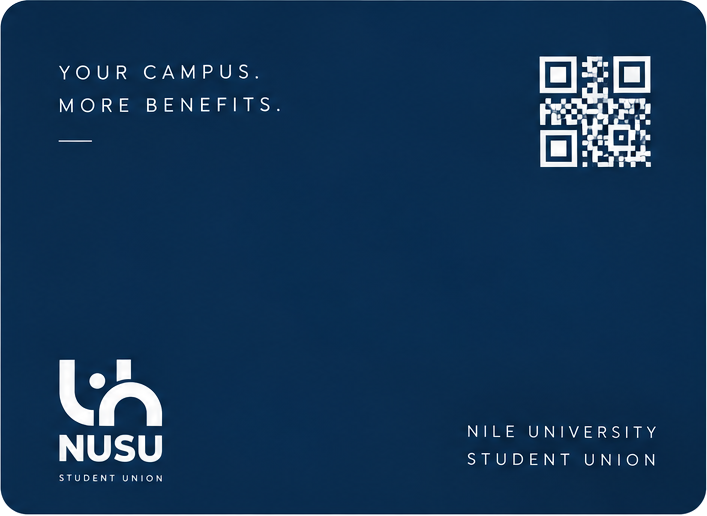
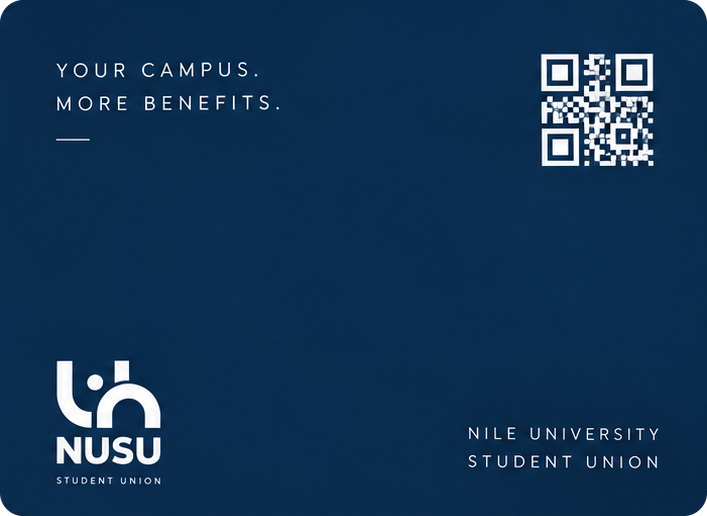
Lanyard: load without hitching; clean card edges
- Card faces sized to the artwork (2x) and painted once instead of 2560px canvases painted twice
- Card stays hidden until shaders compile asynchronously and textures upload one per frame
- Environment map baked at 256px
- Trimmed the light border left on the card crops

diff --git a/components/landing/lanyard-scene.tsx b/components/landing/lanyard-scene.tsx
@@ -172,23 +172,6 @@ function Band({ onGrab, onReady }: { onGrab?: () => void; onReady?: () => void }
   const textures = useMemo(() => createCardTextures(gl.capabilities.getMaxAnisotropy()), [gl]);
   useEffect(() => () => textures.dispose(), [textures]);
 
-  // Physics and textures are in: tell the hero after a couple of frames so the first paint is the real card.
-  useEffect(() => {
-    let live = true;
-    void textures.ready.then(() =>
-      requestAnimationFrame(() =>
-        requestAnimationFrame(() => {
-          if (!live) return;
-          clock.current.started = true;
-          invalidate();
-          onReady?.();
-        }),
-      ),
-    );
-    return () => {
-      live = false;
-    };
-  }, [textures, onReady, invalidate]);
 
   const geometries = useMemo(() => ({ face: faceGeometry(), body: bodyGeometry() }), []);
   useEffect(() => () => {
@@ -219,6 +202,37 @@ function Band({ onGrab, onReady }: { onGrab?: () => void; onReady?: () => void }
       strapBack: strapMaterial(mirroredAcross(textures.strap), THREE.BackSide),
     };
   }, [textures]);
+  // The card stays hidden until it can be drawn without a hitch: textures painted, shaders compiled off the main
+  // thread (compileAsync), then each texture uploaded on its own frame. Only then is it shown and the hero told.
+  const getState = useThree((s) => s.get);
+  const [prepared, setPrepared] = useState(false);
+  useEffect(() => {
+    let live = true;
+    const frame = () => new Promise<void>((resolve) => requestAnimationFrame(() => resolve()));
+    void (async () => {
+      await textures.ready;
+      if (!live) return;
+      const { scene, camera } = getState();
+      await gl.compileAsync(scene, camera).catch(() => undefined);
+      for (const texture of [textures.front, textures.back, textures.strap, materials.strapBack.map]) {
+        if (!live) return;
+        if (texture) gl.initTexture(texture);
+        await frame();
+      }
+      if (!live) return;
+      setPrepared(true);
+      await frame();
+      await frame();
+      if (!live) return;
+      clock.current.started = true;
+      invalidate();
+      onReady?.();
+    })();
+    return () => {
+      live = false;
+    };
+  }, [textures, materials, gl, getState, onReady, invalidate]);
+
   // The mirrored strap print shares the painted image but is its own texture, so re-upload it once painting is done.
   useEffect(() => {
     let live = true;
@@ -404,7 +418,7 @@ function Band({ onGrab, onReady }: { onGrab?: () => void; onReady?: () => void }
   };
 
   return (
-    <>
+    <group visible={prepared}>
       <group
         ref={cardMesh}
         onPointerOver={() => setHovered(true)}
@@ -446,7 +460,7 @@ function Band({ onGrab, onReady }: { onGrab?: () => void; onReady?: () => void }
       </group>
       <mesh ref={ribbon} geometry={ribbonGeo} material={materials.strap} frustumCulled={false} />
       <mesh geometry={ribbonGeo} material={materials.strapBack} frustumCulled={false} />
-    </>
+    </group>
   );
 }
 
@@ -470,7 +484,7 @@ export function LanyardScene({ onCardGrab, onReady }: { onCardGrab?: () => void;
       <ambientLight intensity={Math.PI * 0.55} />
       <directionalLight position={[3, 5, 6]} intensity={1.2} />
       <Band onGrab={onCardGrab} onReady={onReady} />
-      <Environment resolution={512} frames={1}>
+      <Environment resolution={256} frames={1}>
         <Lightformer intensity={2} color="white" position={[0, -1, 5]} rotation={[0, 0, Math.PI / 3]} scale={[100, 0.1, 1]} />
         <Lightformer intensity={3} color="white" position={[-1, -1, 1]} rotation={[0, 0, Math.PI / 3]} scale={[100, 0.1, 1]} />
         <Lightformer intensity={3} color="white" position={[1, 1, 1]} rotation={[0, 0, Math.PI / 3]} scale={[100, 0.1, 1]} />

diff --git a/components/landing/card-textures.ts b/components/landing/card-textures.ts
@@ -340,10 +340,18 @@ function paintStrap(ctx: CanvasRenderingContext2D, icon: HTMLImageElement | null
   ctx.textAlign = "left";
 }
 
-/** Draws an artist-supplied PNG over the whole face (stretched to the card ratio). */
+/** Draws an artist-supplied PNG over the whole face. */
 function paintArt(ctx: CanvasRenderingContext2D, art: HTMLImageElement) {
-  ctx.drawImage(art, 0, 0, CARD_TEX_W, CARD_TEX_H);
+  ctx.drawImage(art, 0, 0, ctx.canvas.width, ctx.canvas.height);
 }
+
+/**
+ * Face canvas size. Supplied artwork is small (~700 px wide), so painting it into the full
+ * 2560 px canvas only costs memory and upload time: use twice the art's resolution instead.
+ */
+const ART_TEX_W = 1414;
+const faceSize = (hasArt: boolean) =>
+  hasArt ? { w: ART_TEX_W, h: Math.round((ART_TEX_W * CARD_TEX_H) / CARD_TEX_W) } : { w: CARD_TEX_W, h: CARD_TEX_H };
 
 export type CardTextures = {
   front: THREE.CanvasTexture;
@@ -359,11 +367,14 @@ export type CardTextures = {
  * (plain navy) and repainted once fonts and logos have loaded.
  */
 export function createCardTextures(maxAnisotropy: number): CardTextures {
-  const front = canvasOf(CARD_TEX_W, CARD_TEX_H);
-  const back = canvasOf(CARD_TEX_W, CARD_TEX_H);
+  const frontSize = faceSize(!!CARD_ART.front);
+  const backSize = faceSize(!!CARD_ART.back);
+  const front = canvasOf(frontSize.w, frontSize.h);
+  const back = canvasOf(backSize.w, backSize.h);
   const strap = canvasOf(STRAP_TEX_W, STRAP_TEX_H);
-  paintBase(front.ctx, CARD_TEX_W, CARD_TEX_H);
-  paintBase(back.ctx, CARD_TEX_W, CARD_TEX_H);
+  // Faces covered by artwork are painted once, when it loads; the scene is hidden until then.
+  if (!CARD_ART.front) paintBase(front.ctx, CARD_TEX_W, CARD_TEX_H);
+  if (!CARD_ART.back) paintBase(back.ctx, CARD_TEX_W, CARD_TEX_H);
   strap.ctx.fillStyle = NAVY;
   strap.ctx.fillRect(0, 0, STRAP_TEX_W, STRAP_TEX_H);
 
